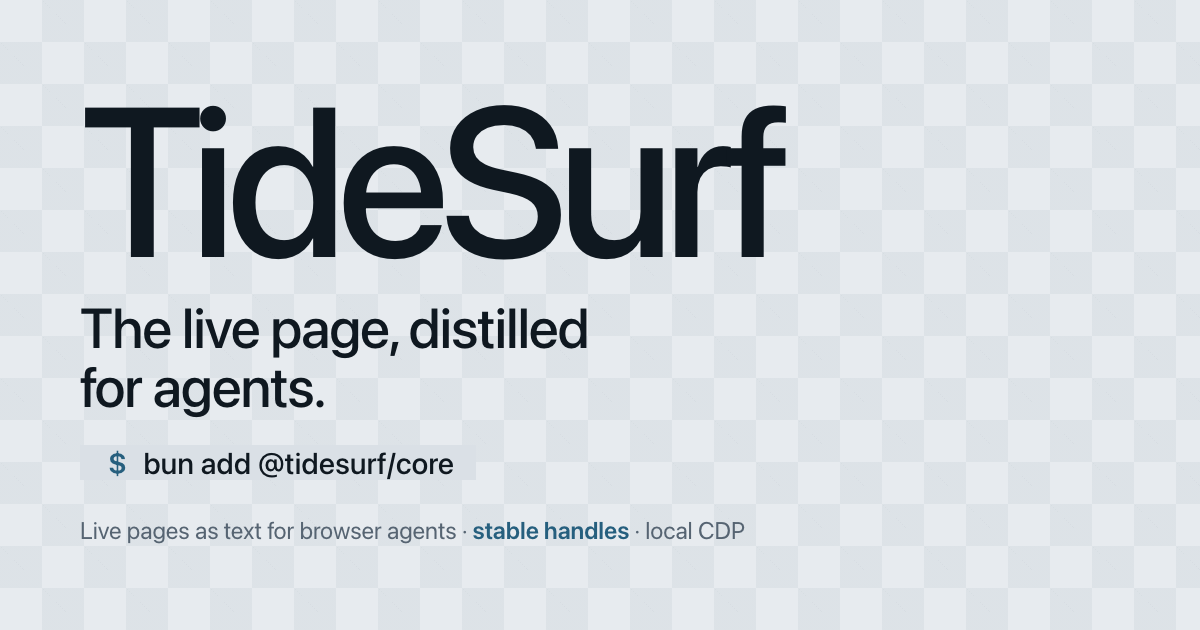
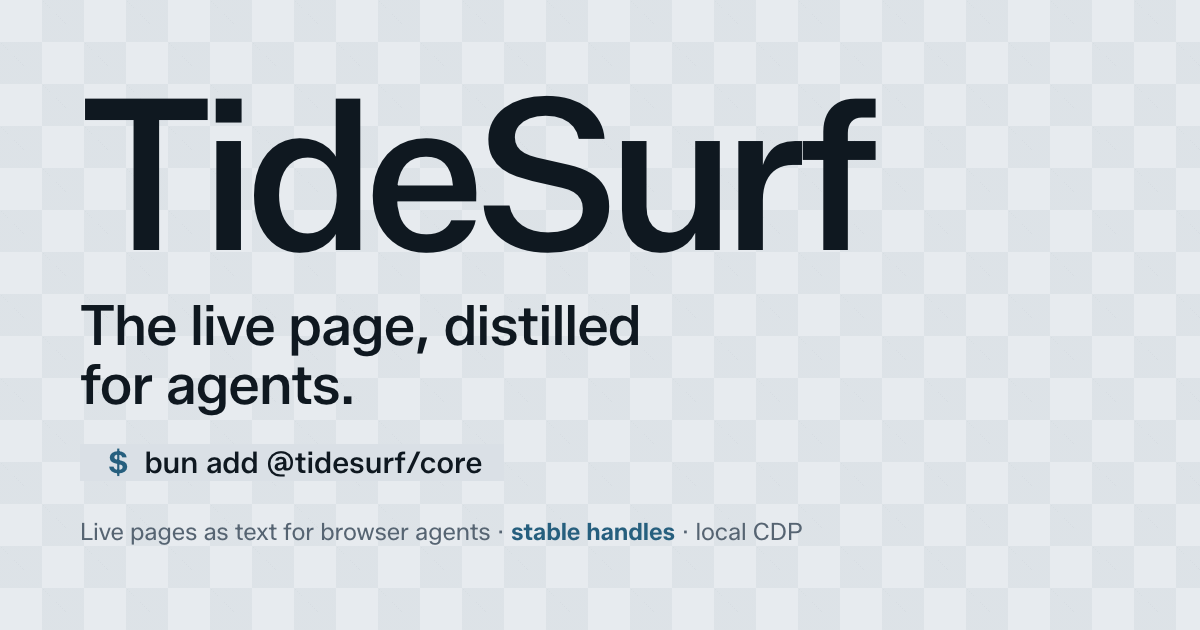
og: load Zalando Sans before rendering so the preview matches the site
The previous og.png fell back to a system font because og.html didn't
load the web font. Add the Google Fonts link and re-render after
document.fonts.ready; the card now uses Zalando Sans like the landing.

diff --git a/website/landing/public/og.html b/website/landing/public/og.html
@@ -2,7 +2,10 @@
 <html>
 <head>
 <meta charset="UTF-8">
-<style>
+  <link rel="preconnect" href="https://fonts.googleapis.com">
+  <link rel="preconnect" href="https://fonts.gstatic.com" crossorigin>
+  <link href="https://fonts.googleapis.com/css2?family=Zalando+Sans:wght@400;500;600&family=Gothic+A1:wght@400;500;600&display=swap" rel="stylesheet">
+  <style>
   * { box-sizing: border-box; margin: 0; padding: 0; }
   html, body { width: 1200px; height: 630px; overflow: hidden; }
   body {
